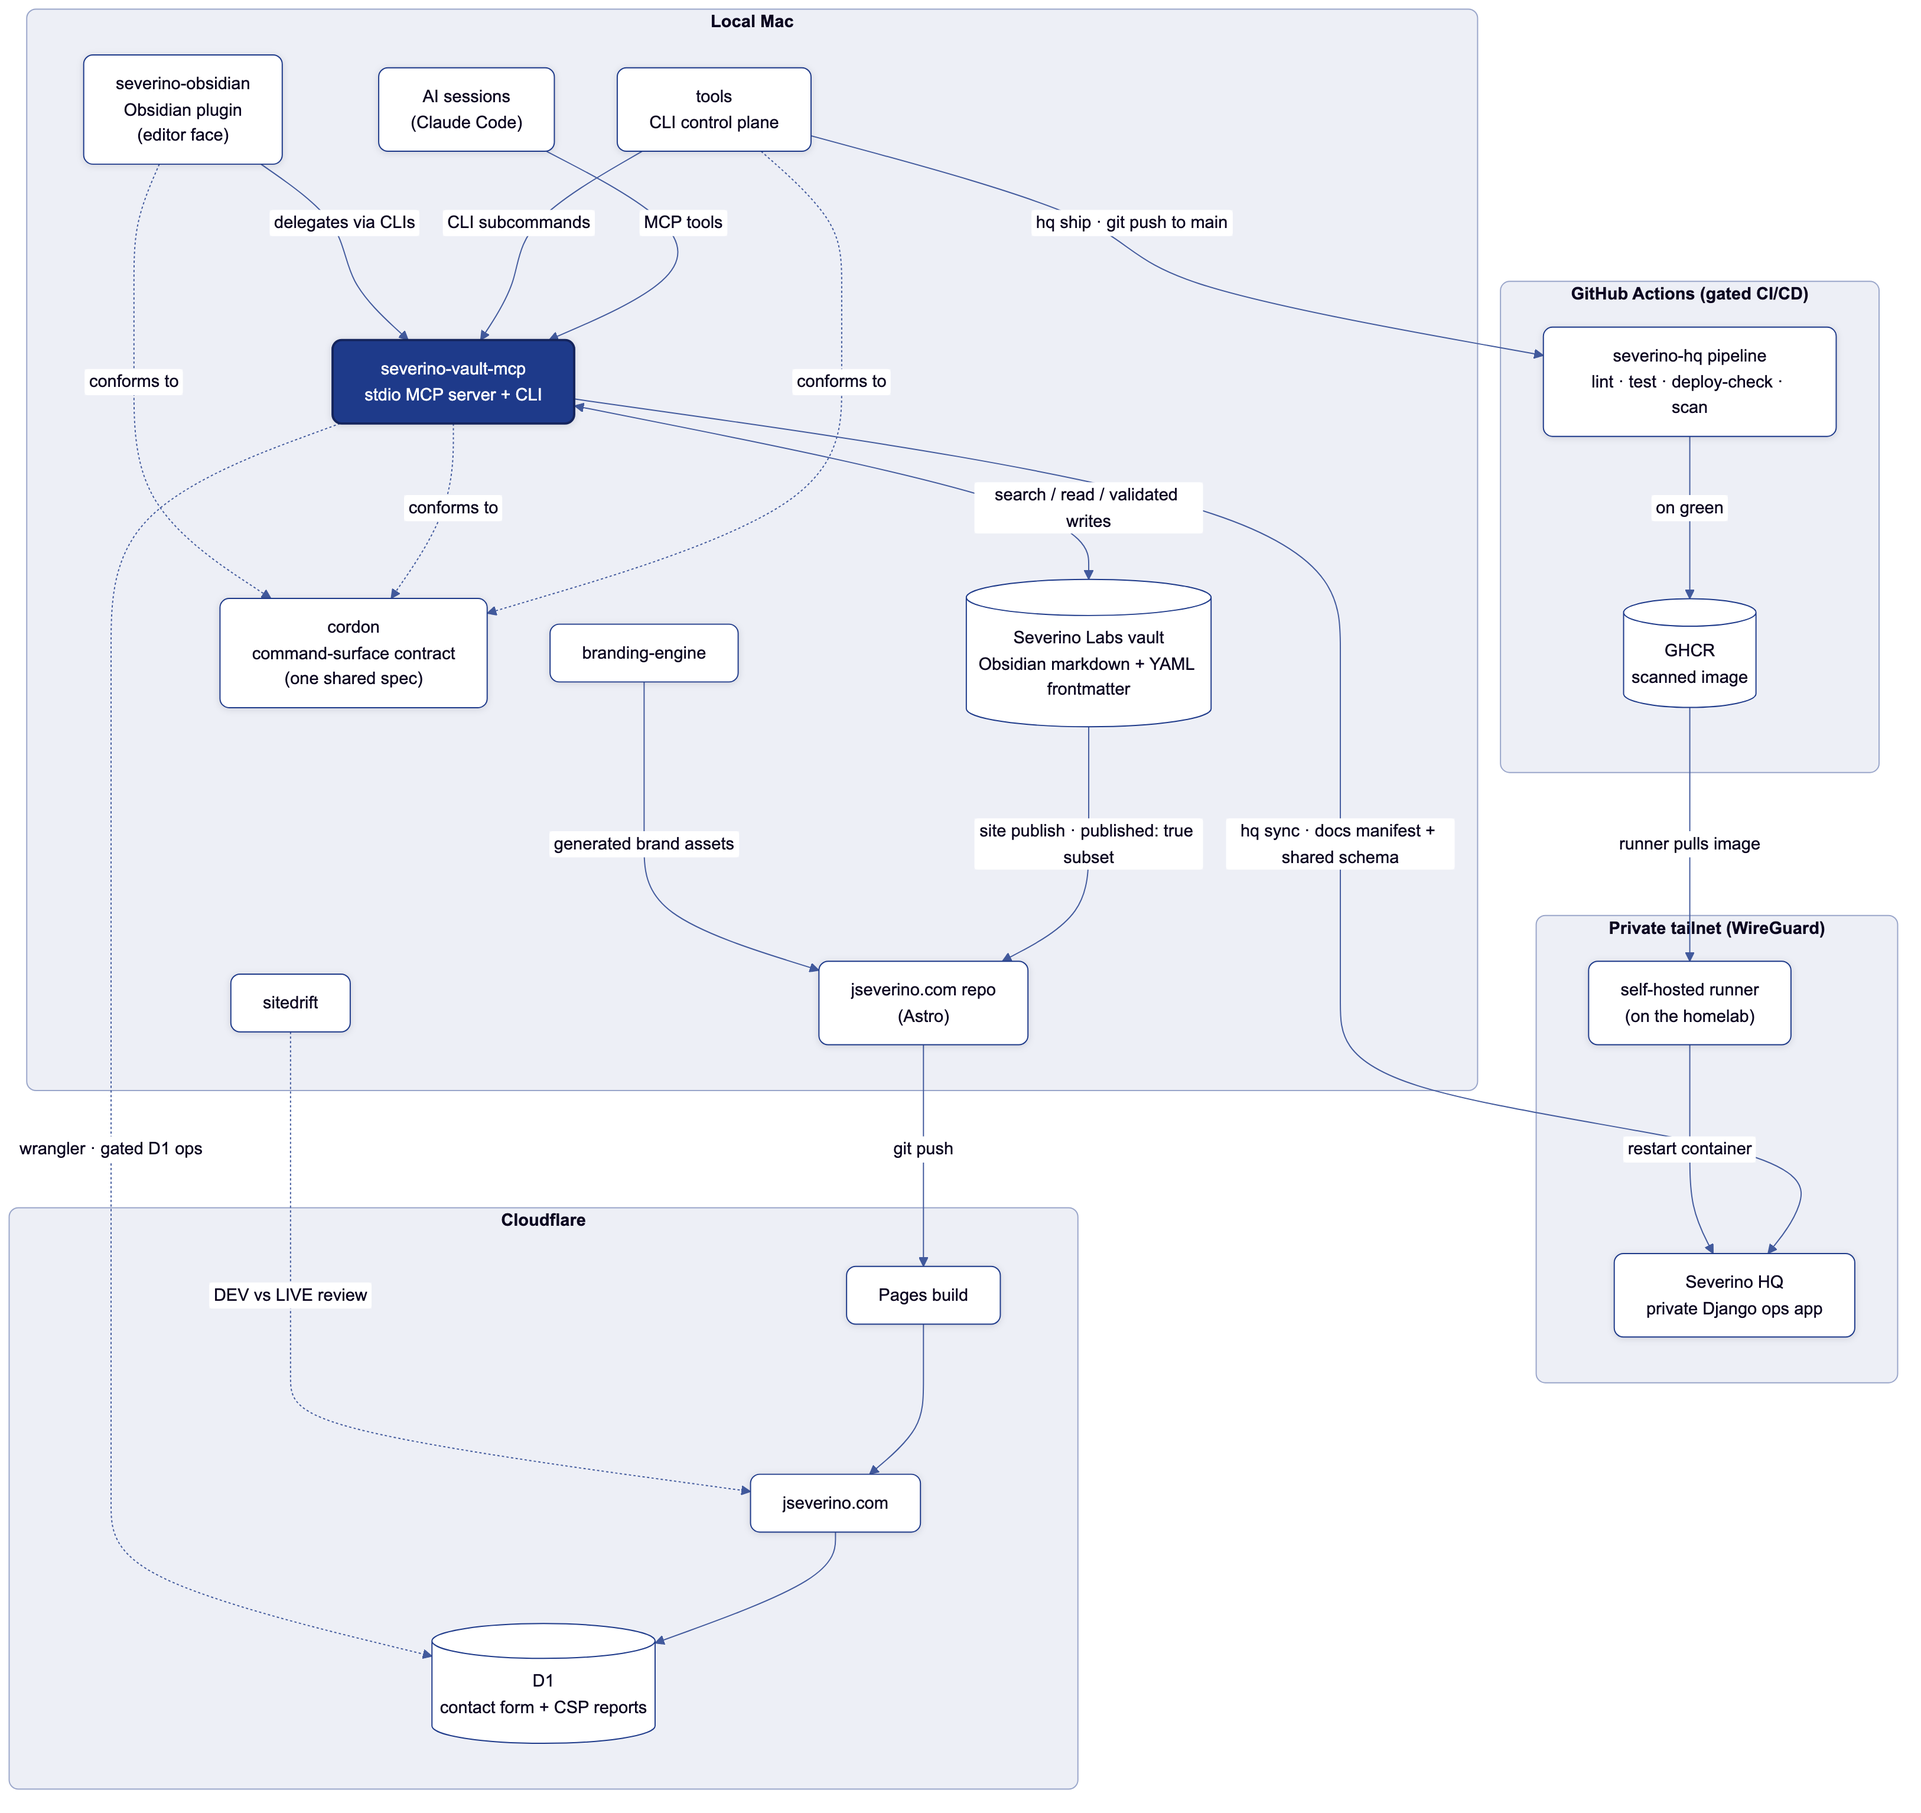
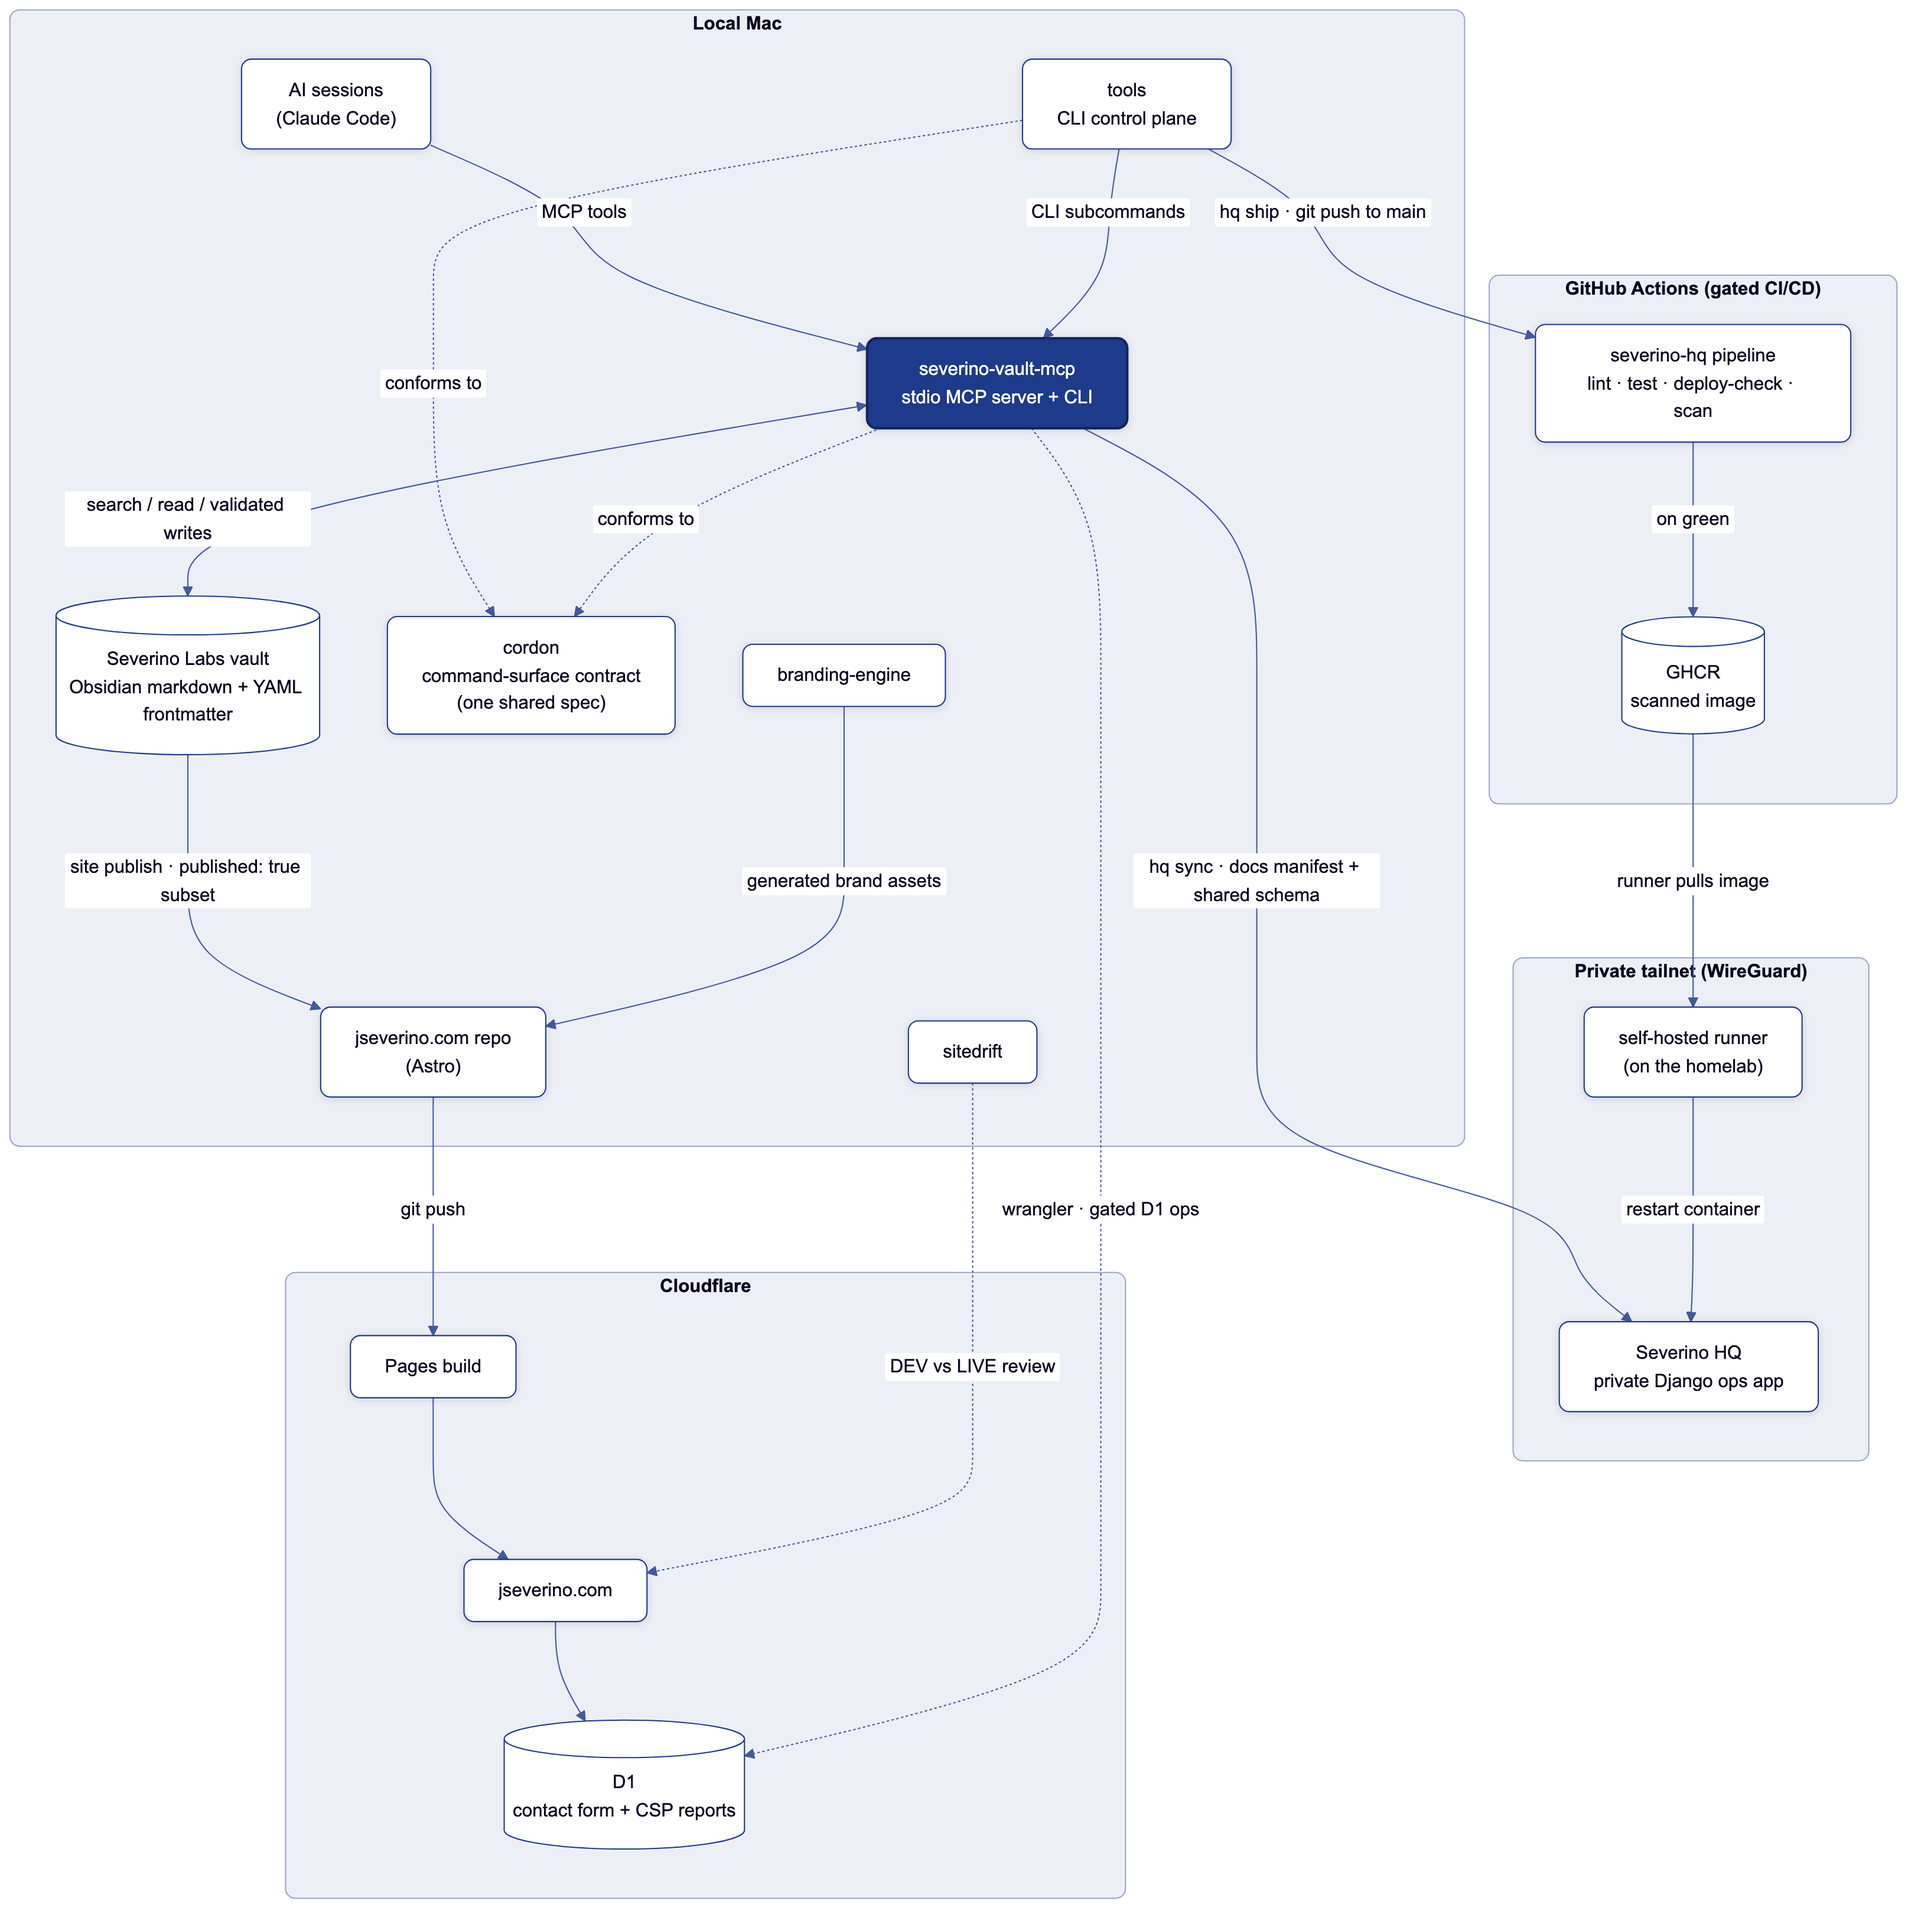
docs: editor face prose + MCP command surface and TUIs (master map unchanged)

diff --git a/ARCHITECTURE.md b/ARCHITECTURE.md
@@ -15,7 +15,7 @@ build stories live on [jseverino.com](https://jseverino.com).
 
 ## The Map
 
-![The full system map: on the local Mac, AI sessions, the tools CLI, and the severino-obsidian Obsidian plugin drive severino-vault-mcp, which reads and writes the Severino Labs vault and syncs a docs manifest plus the shared schema to Severino HQ on the private tailnet; the plugin also renders a site-accurate writeup preview from the jseverino.com repo's own renderer; the vault's published subset is snapshotted into the jseverino.com Astro repo alongside branding-engine assets; a git push triggers the Cloudflare Pages build serving jseverino.com with D1 behind it, reviewed by sitedrift against live; the tools CLI, the MCP, and the plugin all conform to the cordon command-surface contract, one shared spec](docs/diagrams/architecture.png)
+![The full system map: on the local Mac, AI sessions and the tools CLI drive severino-vault-mcp, which reads and writes the Severino Labs vault and syncs a docs manifest plus the shared schema to Severino HQ on the private tailnet; the vault's published subset is snapshotted into the jseverino.com Astro repo alongside branding-engine assets; a git push triggers the Cloudflare Pages build serving jseverino.com with D1 behind it, reviewed by sitedrift against live; the tools CLI and the MCP both conform to the cordon command-surface contract, one shared spec](docs/diagrams/architecture.png)
 
 <sup>Diagram source: [`docs/diagrams/architecture.mmd`](docs/diagrams/architecture.mmd),
 pre-rendered with [`diagram`](https://github.com/joeseverino/tools/blob/main/bin/diagram).</sup>
